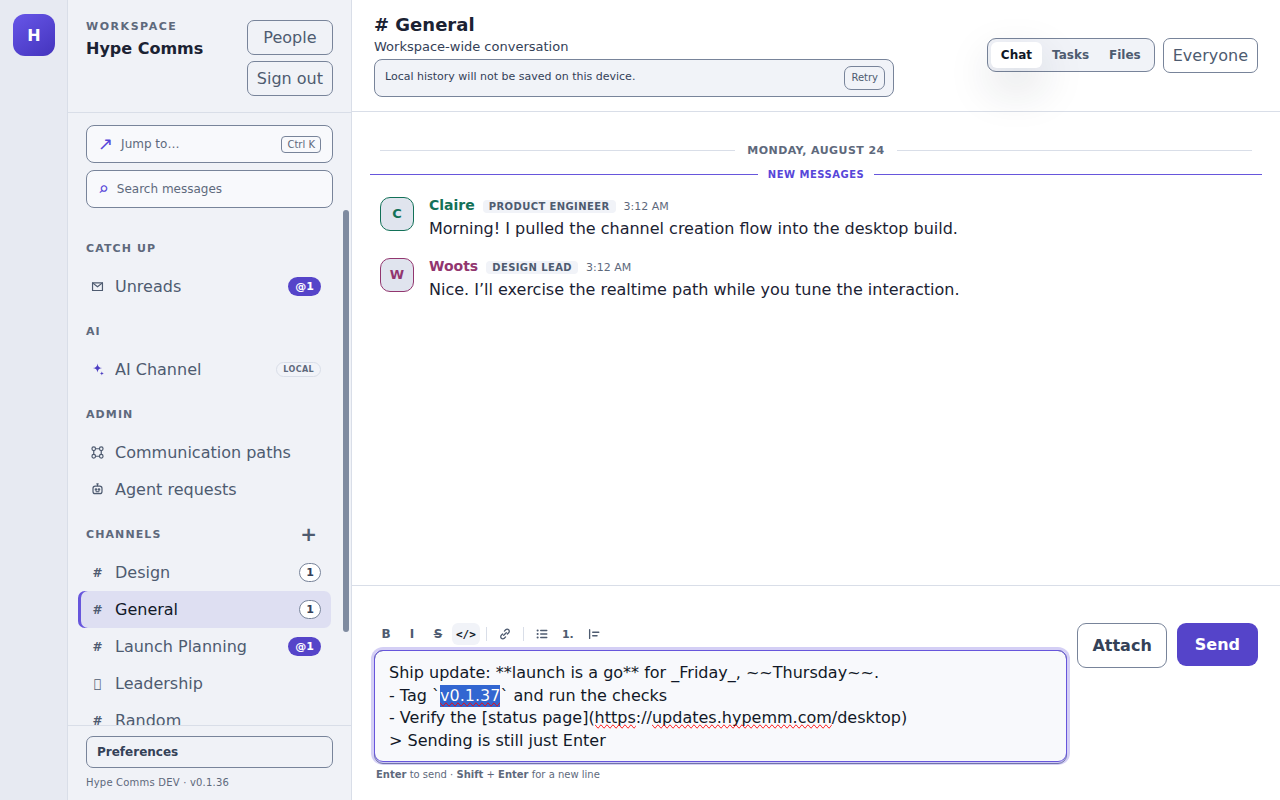
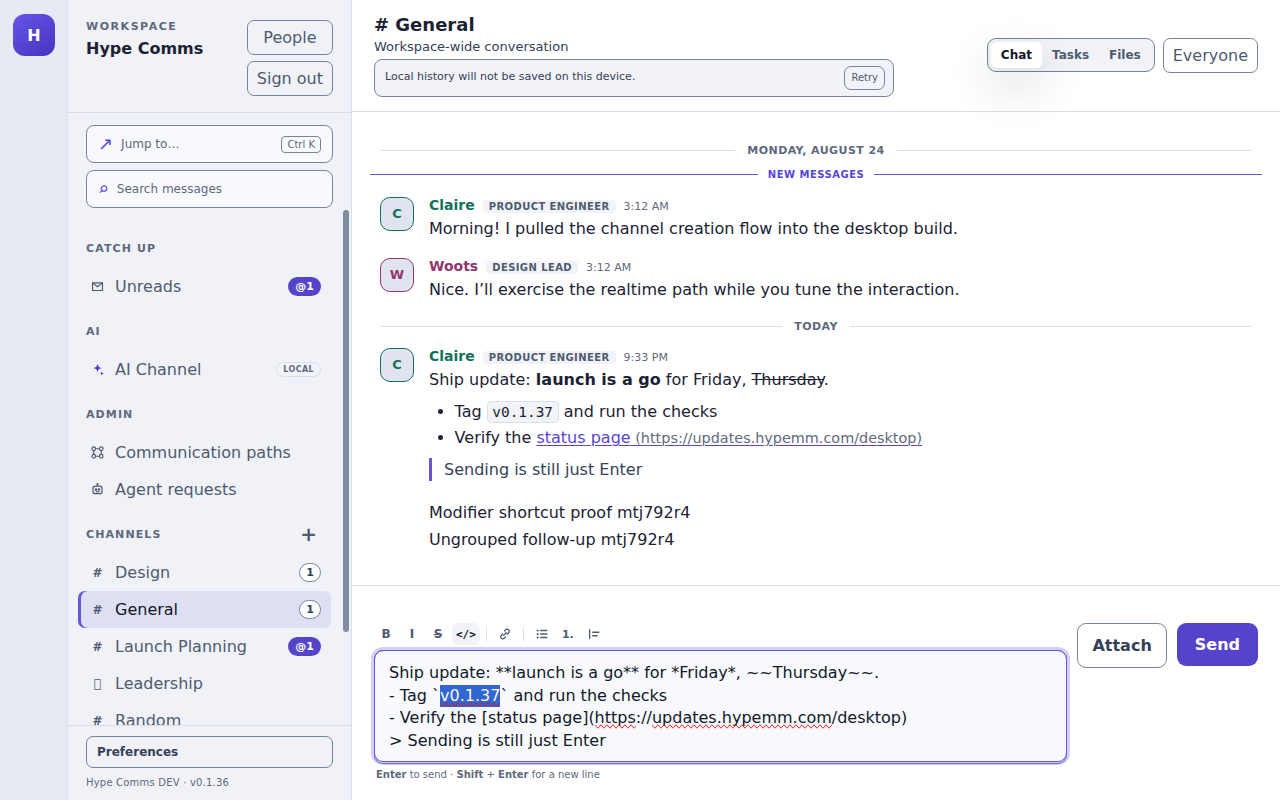
fix(desktop): make composer formatting robust to mentions, backticks, and http links
Address three review findings on the Markdown the composer emits:

Italic switches from underscore to asterisk markers. Underscores are
word characters in usernames, so _@name_ fell out of the mention
boundary scan and silently dropped the mention's notification and
agent wake. Sharing bold's character needs run-parity checks when
toggling, so an odd asterisk run reads as italic and an even one as
bold; nesting and un-nesting the two formats now round-trips.

Code spans size their fence to one backtick longer than the longest
run inside the selection, space-padded when the content edges on a
backtick, so embedded backticks no longer split the span.

The link action only treats https:// selections as destinations,
matching the renderer's https-only link policy, and backslash-escapes
parentheses in the destination so it cannot close early.

Refreshed the committed screenshot evidence to show the asterisk
italics the composer now emits.

🤖 Generated with [Claude Code](https://claude.com/claude-code)

Changed region(s): [[0.2812, 0.4375, 0.7188, 0.5938], [0.3438, 0.625, 0.5312, 0.6875], [0.625, 0.4062, 0.6562, 0.4375]]

diff --git a/apps/desktop/src/renderer/src/composer-formatting.ts b/apps/desktop/src/renderer/src/composer-formatting.ts
@@ -17,14 +17,15 @@ export interface ComposerFormatResult {
 }
 
 /**
- * Italic uses `_` rather than `*` so its marker never collides with bold's `**` — toggling one
- * format off can then never eat the other's delimiters.
+ * Italic uses `*`, not `_`: underscores are word characters in usernames, so `_@name_` would fall
+ * out of the mention boundary scan and silently drop the mention's notification and agent wake.
+ * Sharing bold's character requires the run-parity checks in toggleInline so neither format eats
+ * the other's delimiters. Code spans live in toggleCode, which sizes its own fences.
  */
 const INLINE_MARKERS = {
   bold: "**",
-  italic: "_",
+  italic: "*",
   strikethrough: "~~",
-  code: "`",
 } as const;
 
 type InlineFormat = keyof typeof INLINE_MARKERS;
@@ -39,7 +40,27 @@ type LineFormat = keyof typeof LINE_RULES;
 
 const LINK_TEXT_PLACEHOLDER = "link text";
 const LINK_URL_PLACEHOLDER = "url";
-const URL_PATTERN = /^https?:\/\/\S+$/iu;
+// HTTPS only: the message renderer refuses to link anything else, so treating an http:// selection
+// as a destination would emit a permanently dead link.
+const URL_PATTERN = /^https:\/\/\S+$/iu;
+
+/** Length of the run of `char` at `index` — forward from it, or backward ending just before it. */
+function runLength(value: string, index: number, step: -1 | 1, char: string): number {
+  let count = 0;
+  for (
+    let i = step === -1 ? index - 1 : index;
+    i >= 0 && i < value.length && value[i] === char;
+    i += step
+  ) {
+    count += 1;
+  }
+  return count;
+}
+
+/** An odd asterisk run contains an italic marker; an even one belongs to bold, or is nothing. */
+function isItalicRun(run: number): boolean {
+  return run % 2 === 1;
+}
 
 function toggleInline(
   text: string,
@@ -51,7 +72,15 @@ function toggleInline(
   const width = marker.length;
   const selected = text.slice(start, end);
 
-  if (selected.length >= width * 2 && selected.startsWith(marker) && selected.endsWith(marker)) {
+  const selectionCarriesMarkers =
+    format === "italic"
+      ? selected.length >= 2 &&
+        isItalicRun(runLength(selected, 0, 1, "*")) &&
+        isItalicRun(runLength(selected, selected.length, -1, "*")) &&
+        runLength(selected, 0, 1, "*") + runLength(selected, selected.length, -1, "*") <=
+          selected.length
+      : selected.length >= width * 2 && selected.startsWith(marker) && selected.endsWith(marker);
+  if (selectionCarriesMarkers) {
     const inner = selected.slice(width, selected.length - width);
     return {
       text: `${text.slice(0, start)}${inner}${text.slice(end)}`,
@@ -60,11 +89,13 @@ function toggleInline(
     };
   }
 
-  if (
-    start >= width &&
-    text.slice(start - width, start) === marker &&
-    text.slice(end, end + width) === marker
-  ) {
+  const surroundedByMarkers =
+    format === "italic"
+      ? isItalicRun(runLength(text, start, -1, "*")) && isItalicRun(runLength(text, end, 1, "*"))
+      : start >= width &&
+        text.slice(start - width, start) === marker &&
+        text.slice(end, end + width) === marker;
+  if (surroundedByMarkers) {
     return {
       text: `${text.slice(0, start - width)}${selected}${text.slice(end + width)}`,
       selectionStart: start - width,
@@ -76,6 +107,55 @@ function toggleInline(
     text: `${text.slice(0, start)}${marker}${selected}${marker}${text.slice(end)}`,
     selectionStart: start + width,
     selectionEnd: end + width,
+  };
+}
+
+function longestBacktickRun(value: string): number {
+  let max = 0;
+  for (const run of value.match(/`+/gu) ?? []) max = Math.max(max, run.length);
+  return max;
+}
+
+/**
+ * Code spans cannot backslash-escape backticks, so a selection containing one needs a fence one
+ * backtick longer than its longest run, space-padded when the content itself edges on a backtick.
+ */
+function toggleCode(text: string, start: number, end: number): ComposerFormatResult {
+  const selected = text.slice(start, end);
+
+  const wrapped = /^(`+)( ?)([\s\S]*)\2\1$/u.exec(selected);
+  if (wrapped !== null) {
+    const [, fence, , inner] = wrapped;
+    if (fence !== undefined && inner !== undefined && longestBacktickRun(inner) < fence.length) {
+      return {
+        text: `${text.slice(0, start)}${inner}${text.slice(end)}`,
+        selectionStart: start,
+        selectionEnd: start + inner.length,
+      };
+    }
+  }
+
+  const before = /`+$/u.exec(text.slice(0, start))?.[0] ?? "";
+  const after = /^`+/u.exec(text.slice(end))?.[0] ?? "";
+  if (
+    before.length > 0 &&
+    before.length === after.length &&
+    longestBacktickRun(selected) < before.length
+  ) {
+    return {
+      text: `${text.slice(0, start - before.length)}${selected}${text.slice(end + after.length)}`,
+      selectionStart: start - before.length,
+      selectionEnd: end - before.length,
+    };
+  }
+
+  const fence = "`".repeat(longestBacktickRun(selected) + 1);
+  const pad = selected.startsWith("`") || selected.endsWith("`") ? " " : "";
+  const opening = `${fence}${pad}`;
+  return {
+    text: `${text.slice(0, start)}${opening}${selected}${pad}${fence}${text.slice(end)}`,
+    selectionStart: start + opening.length,
+    selectionEnd: end + opening.length,
   };
 }
 
@@ -127,7 +207,8 @@ function insertLink(text: string, start: number, end: number): ComposerFormatRes
   // Select whichever half still holds placeholder text so the user can type straight over it.
   const labelIsPlaceholder = selected === "" || selectedIsUrl;
   const label = labelIsPlaceholder ? LINK_TEXT_PLACEHOLDER : escapeLinkLabel(selected);
-  const url = selectedIsUrl ? selected : LINK_URL_PLACEHOLDER;
+  // Unescaped parentheses would close or truncate the Markdown destination early.
+  const url = selectedIsUrl ? selected.replace(/[()]/gu, "\\$&") : LINK_URL_PLACEHOLDER;
   const nextText = `${text.slice(0, start)}[${label}](${url})${text.slice(end)}`;
   const labelStart = start + 1;
   const urlStart = labelStart + label.length + 2;
@@ -152,8 +233,9 @@ export function applyComposerFormat(
     case "bold":
     case "italic":
     case "strikethrough":
-    case "code":
       return toggleInline(text, start, end, action);
+    case "code":
+      return toggleCode(text, start, end);
     case "link":
       return insertLink(text, start, end);
     case "bulleted-list":

diff --git a/apps/desktop/src/renderer/src/composer-formatting.test.ts b/apps/desktop/src/renderer/src/composer-formatting.test.ts
@@ -33,19 +33,55 @@ describe("applyComposerFormat inline styles", () => {
     expect(result).toEqual({ text: "note ", selectionStart: 5, selectionEnd: 5 });
   });
 
-  it("uses underscore italics so bold markers stay unambiguous", () => {
-    const result = applyComposerFormat("**loud** word", 9, 13, "italic");
-    expect(result).toEqual({ text: "**loud** _word_", selectionStart: 10, selectionEnd: 14 });
+  it("uses single-asterisk italics so an italicized mention keeps its word boundary", () => {
+    const result = applyComposerFormat("ping @alex now", 5, 10, "italic");
+    expect(result).toEqual({ text: "ping *@alex* now", selectionStart: 6, selectionEnd: 11 });
   });
 
-  it("toggling italic inside bold leaves the bold markers alone", () => {
-    const result = applyComposerFormat("**_word_**", 3, 7, "italic");
+  it("italicizing inside bold nests the markers instead of eating bold's", () => {
+    const result = applyComposerFormat("**word**", 2, 6, "italic");
+    expect(result).toEqual({ text: "***word***", selectionStart: 3, selectionEnd: 7 });
+  });
+
+  it("removes only the italic layer from bold italic text", () => {
+    const result = applyComposerFormat("***word***", 3, 7, "italic");
     expect(result).toEqual({ text: "**word**", selectionStart: 2, selectionEnd: 6 });
+  });
+
+  it("removes only the bold layer from bold italic text", () => {
+    const result = applyComposerFormat("***word***", 3, 7, "bold");
+    expect(result).toEqual({ text: "*word*", selectionStart: 1, selectionEnd: 5 });
   });
 
   it("wraps strikethrough and inline code with their own markers", () => {
     expect(applyComposerFormat("old plan", 0, 8, "strikethrough").text).toBe("~~old plan~~");
     expect(applyComposerFormat("npm ci", 0, 6, "code").text).toBe("`npm ci`");
+  });
+
+  it("grows the code fence past embedded backticks", () => {
+    const result = applyComposerFormat("run `npm ci` now", 0, 16, "code");
+    expect(result.text).toBe("``run `npm ci` now``");
+    expect(result.text.slice(result.selectionStart, result.selectionEnd)).toBe("run `npm ci` now");
+  });
+
+  it("unwraps a long-fenced selection back to its content", () => {
+    const result = applyComposerFormat("``run `npm ci` now``", 0, 20, "code");
+    expect(result).toEqual({ text: "run `npm ci` now", selectionStart: 0, selectionEnd: 16 });
+  });
+
+  it("pads the code fence when the selection itself edges on a backtick", () => {
+    const result = applyComposerFormat("cmd`", 0, 4, "code");
+    expect(result.text).toBe("`` cmd` ``");
+    const roundTrip = applyComposerFormat(result.text, 0, result.text.length, "code");
+    expect(roundTrip.text).toBe("cmd`");
+  });
+
+  it("unwraps a selection that includes its own single-backtick fences", () => {
+    expect(applyComposerFormat("`cmd`", 0, 5, "code")).toEqual({
+      text: "cmd",
+      selectionStart: 0,
+      selectionEnd: 3,
+    });
   });
 
   it("swaps selection bounds passed in reverse order", () => {
@@ -82,6 +118,18 @@ describe("applyComposerFormat links", () => {
     const result = applyComposerFormat("see docs] here", 4, 9, "link");
     expect(result.text).toBe("see [docs\\]](url) here");
     expect(result.text.slice(result.selectionStart, result.selectionEnd)).toBe("url");
+  });
+
+  it("treats an http url as a label because the renderer links https only", () => {
+    const result = applyComposerFormat("http://example.com", 0, 18, "link");
+    expect(result.text).toBe("[http://example.com](url)");
+    expect(result.text.slice(result.selectionStart, result.selectionEnd)).toBe("url");
+  });
+
+  it("escapes parentheses in a selected https destination", () => {
+    const result = applyComposerFormat("https://x.dev/a(b)", 0, 18, "link");
+    expect(result.text).toBe("[link text](https://x.dev/a\\(b\\))");
+    expect(result.text.slice(result.selectionStart, result.selectionEnd)).toBe("link text");
   });
 });
 
